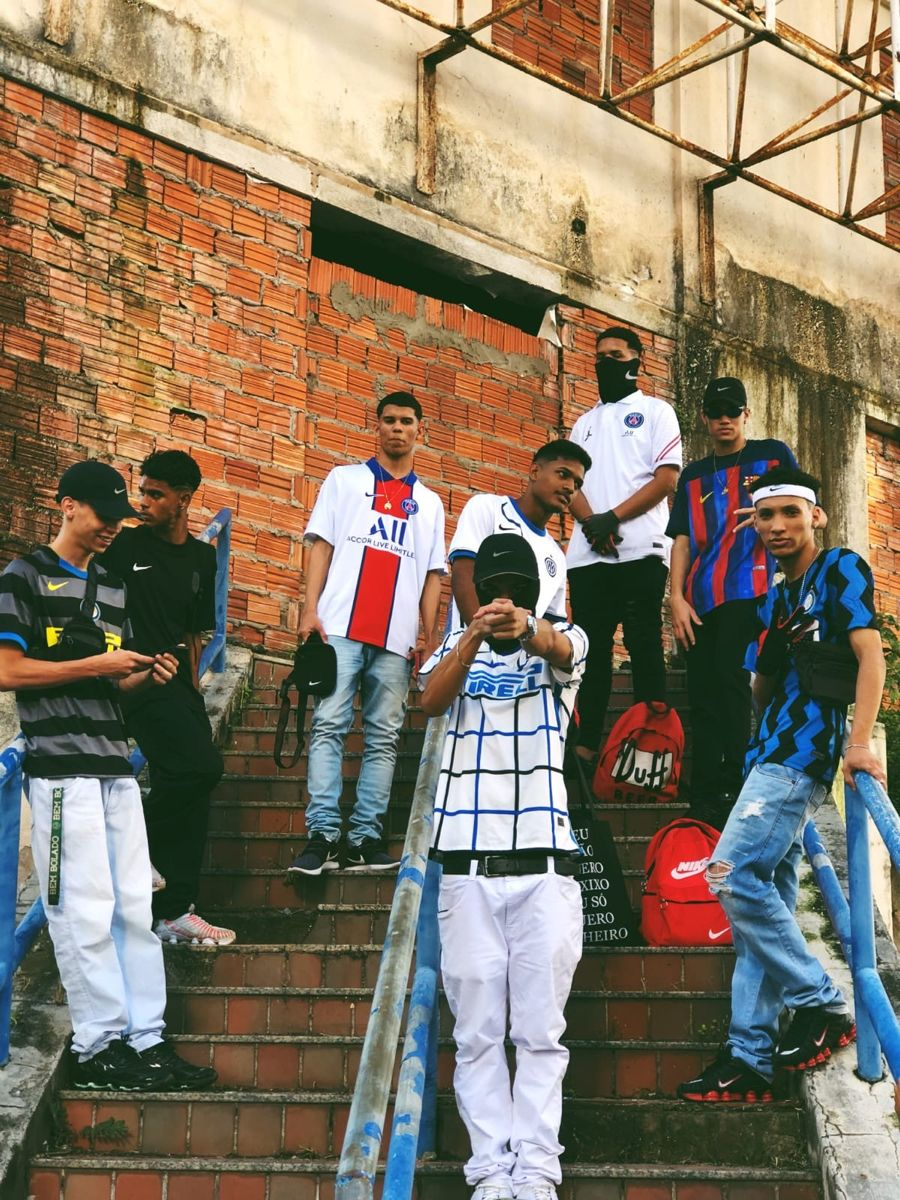
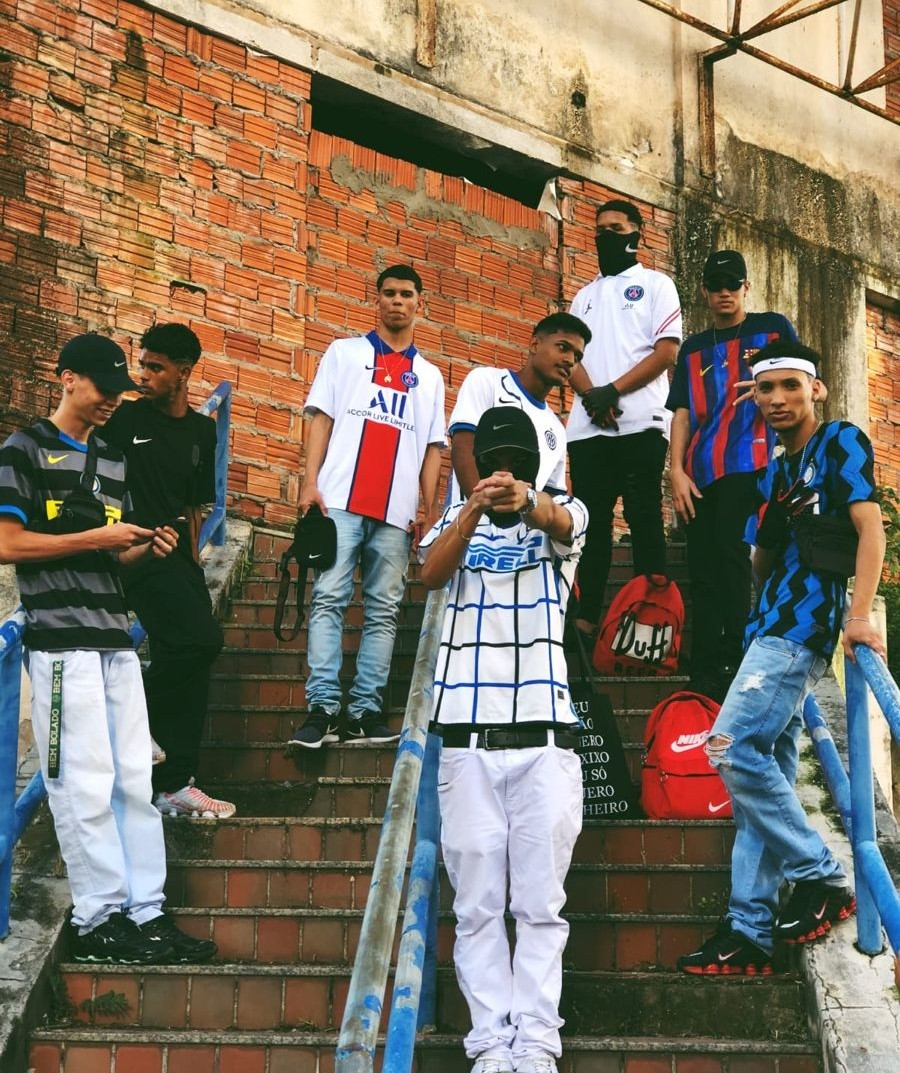
first commit

diff --git a/src/components/SiteHeader.tsx b/src/components/SiteHeader.tsx
@@ -204,13 +204,13 @@ export default function SiteHeader() {
           <Link href="/collection" className="transition hover:opacity-70">
             Hommes
           </Link>
-          <Link href="/#categories" className="transition hover:opacity-70">
+          <Link href="/collection" className="transition hover:opacity-70">
             Femmes
           </Link>
-          <Link href="/#story" className="transition hover:opacity-70">
+          <Link href="/collection" className="transition hover:opacity-70">
             Enfants
           </Link>
-          <Link href="/#newsletter" className="transition hover:opacity-70">
+          <Link href="/collection" className="transition hover:opacity-70">
             Lifestyle
           </Link>
           <Link href="/collection" className="transition hover:opacity-70">
@@ -279,13 +279,13 @@ export default function SiteHeader() {
             <Link href="/collection" className="transition hover:opacity-70" onClick={() => setMobileMenuOpen(false)}>
               Hommes
             </Link>
-            <Link href="/#categories" className="transition hover:opacity-70" onClick={() => setMobileMenuOpen(false)}>
+            <Link href="/collection" className="transition hover:opacity-70" onClick={() => setMobileMenuOpen(false)}>
               Femmes
             </Link>
-            <Link href="/#club" className="transition hover:opacity-70" onClick={() => setMobileMenuOpen(false)}>
+            <Link href="/collection" className="transition hover:opacity-70" onClick={() => setMobileMenuOpen(false)}>
               Enfants
             </Link>
-            <Link href="/#club" className="transition hover:opacity-70" onClick={() => setMobileMenuOpen(false)}>
+            <Link href="/collection" className="transition hover:opacity-70" onClick={() => setMobileMenuOpen(false)}>
               Lifestyle
             </Link>
             <Link href="/collection" className="transition hover:opacity-70" onClick={() => setMobileMenuOpen(false)}>
